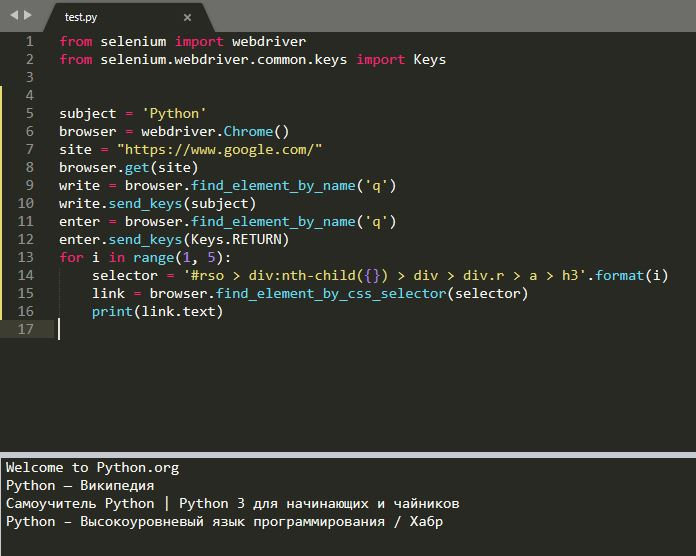
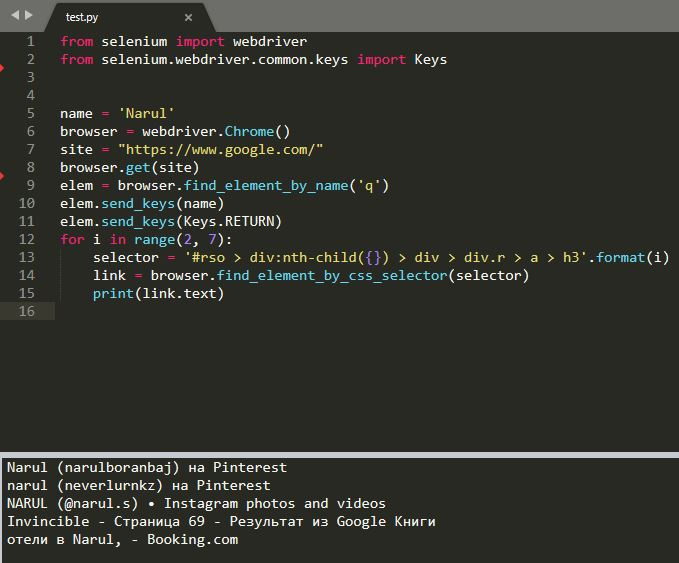
Add files via upload
Edit variable to name, changes in find_element_by_name and send_keys

Changed region(s): [[0.0, 0.0, 0.9897, 0.6115], [0.0, 0.795, 1.0, 0.9784]]

diff --git a/test.py b/test.py
@@ -2,15 +2,14 @@ from selenium import webdriver
 from selenium.webdriver.common.keys import Keys
 
 
-subject = 'Python'
+name = 'Narul'
 browser = webdriver.Chrome()
 site = "https://www.google.com/"
 browser.get(site)
-write = browser.find_element_by_name('q')
-write.send_keys(subject)
-enter = browser.find_element_by_name('q')
-enter.send_keys(Keys.RETURN)
-for i in range(1, 5):
+elem = browser.find_element_by_name('q')
+elem.send_keys(name)
+elem.send_keys(Keys.RETURN)
+for i in range(2, 7):
     selector = '#rso > div:nth-child({}) > div > div.r > a > h3'.format(i)
     link = browser.find_element_by_css_selector(selector)
     print(link.text)
